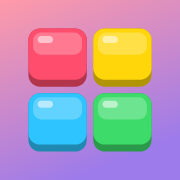
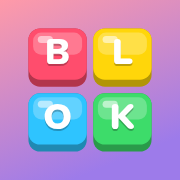
Blokaholic rename; 45s idle move limit (Classic/Daily/challenges); No-moves swap prompt with 3s auto-swap

diff --git a/index.html b/index.html
@@ -6,11 +6,11 @@
 <meta name="theme-color" content="#7b5cd6">
 <meta name="mobile-web-app-capable" content="yes">
 <meta name="apple-mobile-web-app-capable" content="yes">
-<title>Block Bloom: free block puzzle, zero ads</title>
+<title>Blokaholic: free block puzzle, zero ads</title>
 <meta name="description" content="Drag, clear, combo. Tap to play the same pieces and beat my score!">
 <meta property="og:type" content="website">
-<meta property="og:site_name" content="Block Bloom">
-<meta property="og:title" content="Block Bloom: free block puzzle, zero ads">
+<meta property="og:site_name" content="Blokaholic">
+<meta property="og:title" content="Blokaholic: free block puzzle, zero ads">
 <meta property="og:description" content="Drag, clear, combo. Tap to play the same pieces and beat my score!">
 <meta property="og:url" content="https://duncanjameslowe37-svg.github.io/block-bloom/">
 <meta property="og:image" content="https://duncanjameslowe37-svg.github.io/block-bloom/og-image.png">
@@ -18,12 +18,12 @@
 <meta property="og:image:type" content="image/png">
 <meta property="og:image:width" content="1200">
 <meta property="og:image:height" content="630">
-<meta property="og:image:alt" content="Block Bloom: a colourful block puzzle board, the words Can you beat me? and a Zero Ads badge">
+<meta property="og:image:alt" content="Blokaholic: a colourful block puzzle board, the words Can you beat me? and a Zero Ads badge">
 <meta name="twitter:card" content="summary_large_image">
-<meta name="twitter:title" content="Block Bloom: free block puzzle, zero ads">
+<meta name="twitter:title" content="Blokaholic: free block puzzle, zero ads">
 <meta name="twitter:description" content="Drag, clear, combo. Tap to play the same pieces and beat my score!">
 <meta name="twitter:image" content="https://duncanjameslowe37-svg.github.io/block-bloom/og-image.png">
-<meta name="twitter:image:alt" content="Block Bloom: a colourful block puzzle board, the words Can you beat me? and a Zero Ads badge">
+<meta name="twitter:image:alt" content="Blokaholic: a colourful block puzzle board, the words Can you beat me? and a Zero Ads badge">
 <link rel="canonical" href="https://duncanjameslowe37-svg.github.io/block-bloom/">
 <link rel="icon" type="image/png" sizes="32x32" href="favicon-32.png">
 <link rel="icon" type="image/png" sizes="192x192" href="icon-192.png">
@@ -57,6 +57,7 @@ body.menu #hud .scorebox,body.menu #homeBtn{visibility:hidden}
 .overlay.show .card{transform:none}
 .logo{display:flex;flex-direction:column;align-items:center;gap:4px;margin-bottom:10px}
 .pvlink{display:inline-block;margin-top:12px;font-size:12px;font-weight:700;color:#fff;opacity:.55;text-decoration:none;padding:4px 10px;pointer-events:auto}.pvlink:hover{opacity:.9;text-decoration:underline}
+#oReason{font-size:15px;font-weight:900;opacity:.85;margin:2px 0 4px;letter-spacing:.3px}#oReason.time{color:#ffb3c1;opacity:1}
 .tagline{font-size:15px;font-weight:800;opacity:.92;margin:0 0 18px;text-shadow:0 2px 0 rgba(0,0,0,.15)}
 .logo .row{display:flex;gap:5px}
 .logo .tile{width:44px;height:48px;border-radius:11px;display:flex;align-items:center;justify-content:center;font-weight:900;font-size:30px;
@@ -110,6 +111,23 @@ h2{margin:0 0 4px;font-size:28px;font-weight:900}
 #swapBtn.armed::before{background:linear-gradient(#ffd60a,#ff9f1c)}
 #swapBtn.pulse{animation:spulse .8s ease-in-out infinite}
 @keyframes spulse{0%,100%{transform:scale(1);filter:drop-shadow(0 0 0 #ffd60a)}50%{transform:scale(1.2);filter:drop-shadow(0 0 14px #ffd60a)}}
+#stuckP{position:fixed;z-index:4;display:none;flex-direction:column;align-items:center;justify-content:center;gap:6px;padding:10px;border-radius:22px;
+  background:rgba(40,16,80,.78);color:#fff;font-weight:900;text-align:center;cursor:pointer;border:3px solid #ffd60a;
+  box-shadow:0 0 0 5px rgba(255,214,10,.22),0 12px 30px rgba(0,0,0,.35);font:inherit;font-weight:900}
+#stuckP.show{display:flex;animation:spIn .4s cubic-bezier(.2,1.6,.4,1)}
+#stuckP .s1{font-size:26px;letter-spacing:.5px;text-shadow:0 2px 0 rgba(0,0,0,.25)}
+#stuckP .s2{font-size:21px;color:#ffd60a;display:flex;align-items:center;gap:8px}
+#stuckP .s2 svg{font-size:26px}
+#stuckP .sbar{width:min(220px,70%);height:6px;border-radius:3px;background:rgba(255,255,255,.2);overflow:hidden;margin-top:2px}
+#stuckP .sbar i{display:block;height:100%;width:100%;background:#ffd60a;border-radius:3px;transform-origin:left}
+#stuckP.show .sbar i{animation:sbarK 2.9s linear forwards}
+#stuckP .sarr{font-size:30px;color:#ffd60a;line-height:1;animation:sbob .6s ease-in-out infinite}
+@keyframes sbarK{from{transform:scaleX(1)}to{transform:scaleX(0)}}
+@keyframes sbob{0%,100%{transform:translateY(0)}50%{transform:translateY(7px)}}
+@keyframes spIn{0%{transform:scale(.6);opacity:0}100%{transform:scale(1);opacity:1}}
+@keyframes sbig{0%,100%{transform:scale(1.3);filter:drop-shadow(0 0 6px #ffd60a)}50%{transform:scale(1.5);filter:drop-shadow(0 0 24px #ffd60a)}}
+body.stuck #swapBtn.pulse{animation:sbig .7s ease-in-out infinite;z-index:5}
+body.menu #stuckP{display:none}
 #swapBtn.pop{animation:spop .6s cubic-bezier(.2,1.8,.4,1)}
 @keyframes spop{0%{transform:scale(.5) rotate(-90deg)}100%{transform:scale(1) rotate(0)}}
 body.menu #swapBtn{visibility:hidden}
@@ -187,6 +205,7 @@ body.chal #chalCard{padding:12px 14px 14px}
 <div id="over" class="overlay">
   <div class="card">
     <div id="oRibbon" class="ribbon" style="display:none">NEW BEST!</div>
+    <div id="oReason"></div>
     <div class="lbl">SCORE</div>
     <div id="oScore">0</div>
     <div id="oBest"><svg viewBox="0 0 24 24"><path d="M3 7l4.5 4L12 4l4.5 7L21 7l-2 12H5z"/></svg><span id="oBestV">0</span></div>
@@ -221,6 +240,7 @@ body.chal #chalCard{padding:12px 14px 14px}
   <div class="row3"><button class="ibtn" id="bBack" aria-label="Back"><svg viewBox="0 0 24 24"><path d="M20 11H7.8l5.6-5.6L12 4l-8 8 8 8 1.4-1.4L7.8 13H20z"/></svg></button><button class="ibtn" id="bSave" aria-label="Download"><svg viewBox="0 0 24 24"><path d="M11 3h2v9l3.5-3.5 1.4 1.4L12 15.8 6.1 9.9l1.4-1.4L11 12zM4 18h16v2H4z"/></svg></button><button class="ibtn" id="bShare" aria-label="Share" style="flex:2;background:linear-gradient(#5dff8a,#1fc45a)"><svg viewBox="0 0 24 24"><path d="M18 16a3 3 0 0 0-2.2 1l-7-4a3 3 0 0 0 0-2l7-4A3 3 0 1 0 15 5l-7 4a3 3 0 1 0 0 6l7 4a3 3 0 1 0 3-3z"/></svg></button></div>
 </div></div>
 <div id="toast"></div>
+<button id="stuckP" aria-label="No moves. Tap to swap a piece"><div class="s1">NO MOVES!</div><div class="s2"><svg viewBox="0 0 24 24"><path d="M7 7h10.2l-2.6-2.6L16 3l5 5-5 5-1.4-1.4L17.2 9H7zm10 10H6.8l2.6 2.6L8 21l-5-5 5-5 1.4 1.4L6.8 15H17z"/></svg>Tap to SWAP</div><div class="sbar"><i></i></div><div class="sarr">&#9660;</div></button>
 <button id="swapBtn" class="empty" aria-label="Swap a piece"><svg viewBox="0 0 24 24"><path d="M7 7h10.2l-2.6-2.6L16 3l5 5-5 5-1.4-1.4L17.2 9H7zm10 10H6.8l2.6 2.6L8 21l-5-5 5-5 1.4 1.4L6.8 15H17z"/></svg><b id="swapN">0</b></button>
 
 <script>
@@ -233,6 +253,7 @@ let W=0,H=0,DPR=1,now=0,last=0;
 
 /* ---------------- icons ---------------- */
 const IC={
+ clock:'<svg viewBox="0 0 24 24"><path d="M12 2a10 10 0 1 0 0 20 10 10 0 0 0 0-20zm0 2a8 8 0 1 1 0 16 8 8 0 0 1 0-16zm-1 3v6l5 3 1-1.7-4-2.3V7z"/></svg>',
  on:'<svg viewBox="0 0 24 24"><path d="M3 9v6h4l5 5V4L7 9zm13.5 3A4.5 4.5 0 0 0 14 8v8a4.5 4.5 0 0 0 2.5-4zM14 3.2v2.1a7 7 0 0 1 0 13.4v2.1a9 9 0 0 0 0-17.6z"/></svg>',
  off:'<svg viewBox="0 0 24 24"><path d="M3 9v6h4l5 5V4L7 9zm18.4 3 2-2-1.4-1.4-2 2-2-2-1.4 1.4 2 2-2 2 1.4 1.4 2-2 2 2 1.4-1.4z"/></svg>',
  flame:'<svg viewBox="0 0 24 24"><path d="M13.5.7s.7 2.6.7 4.7c0 2-1.3 3.6-3.3 3.6S7.4 7.4 7.4 5.4V5A11.5 11.5 0 0 0 4 13a8 8 0 0 0 16 0c0-5.4-2.6-10.2-6.5-12.3zM11.7 20c-1.8 0-3.2-1.4-3.2-3.1 0-1.6 1-2.8 2.8-3.1 1.8-.4 3.6-1.2 4.6-2.6.4 1.3.6 2.6.6 4 0 2.6-2.1 4.8-4.8 4.8z"/></svg>',
@@ -317,6 +338,8 @@ function randPiece(r){let x=r()*TOTALW;for(const p of PIECES){x-=p.w;if(x<=0)ret
 /* ---------------- state ---------------- */
 let board=[],tray=[null,null,null],score=0,shown=0,combo=0,since=0,mode='classic',state='title',drng=Math.random,dailyTarget=0;
 let gameSeed=0,dealN=0,grng=Math.random,gift=null,nextGift=4,clearsN=0,mult2=0,perfects=0,newBestHit=false,challenge=null,chalWon=false,pendingChal=null;
+const IDLE=45000,IDLE_WARN=10000;let idleT=IDLE,idleSec=99,idleSince=0;
+const STUCK_AUTO=2900;let stuckShown=false,stuckLeft=0,stuckAt=0;
 let swaps=0,meter=0,armed=false,stuck=false,srng=Math.random,speedT=0,speedMax=8000,strikes=3,lastTick=99;
 const MAXS=3,speedFor=s=>3000+5000*Math.exp(-s/5000);
 let drag=null,ghost=null,kb=null,particles=[],fx=[],texts=[],shake=0,flash=0,flashCol='#fff',endT=0,celebrated=false,hint=null,trayT=0,bgPulse=0,maxComboRun=0,linesRun=0;
@@ -376,6 +399,7 @@ const SFX={
  giftOpen(){noise(.3,.1,4000);[0,4,7,12,16,19].forEach((k,i)=>tone(note(10+k),.35,'triangle',.13,0,i*.05))},
  tick(hi){tone(hi?1320:1040,.05,'sine',.07)},
  strike(){tone(300,.3,'triangle',.25,110);noise(.15,.07,700)},
+ softTick(){tone(880,.05,'sine',.07)},
  earn(){[0,4,7,12].forEach((k,i)=>tone(note(12+k),.2,'sine',.14,0,i*.05));tone(note(24),.4,'triangle',.06,0,.2)},
  swap(){noise(.2,.07,2500);tone(380,.2,'triangle',.15,900)},
  unlock(){[0,4,7,12,16].forEach((k,i)=>tone(note(8+k),.3,'sine',.15,0,i*.06))}
@@ -481,8 +505,11 @@ function layout(){
   L.slots=[0,1,2].map(i=>({x:L.bx+i*S/3,y:L.by+S+L.cell*.25,w:S/3,h:th}));
   L.swap={x:W/2-32,y:Math.min(L.slots[0].y+th+2,H-74)};
  }
+ L.idle={x:L.swap.x+32-(land?Math.min(84,L.slots[0].w/2-30):88),y:L.swap.y+32};
  L.tc=Math.min(L.cell*.64,L.slots[0].w/4.8,L.slots[0].h/5.2);
  const sb=$('#swapBtn');sb.style.left=L.swap.x+'px';sb.style.top=L.swap.y+'px';
+ {const sp=$('#stuckP'),r=land?{x:L.slots[0].x,y:L.by,w:L.slots[0].w,h:L.swap.y-L.by-14}:{x:L.bx+6,y:L.slots[0].y,w:L.S-12,h:L.swap.y-L.slots[0].y-10};
+  Object.assign(sp.style,{left:r.x+'px',top:r.y+'px',width:r.w+'px',height:Math.max(120,r.h)+'px'})}
  makeBokeh();
 }
 function slotCenter(i){const s=L.slots[i];return{x:s.x+s.w/2,y:s.y+s.h/2}}
@@ -614,6 +641,7 @@ function draw(){
   ctx.fillStyle=`hsl(${hue},95%,${urgent?58+10*Math.sin(now*.03):56}%)`;if(f>0){rr(bx,y,Math.max(h,S*f),h,h/2);ctx.fill()}
   if(urgent){ctx.strokeStyle=`rgba(255,70,90,${.45+.45*Math.sin(now*.03)})`;ctx.lineWidth=4;rr(bx-8,by-8,S+16,S+16,18);ctx.stroke()}
  }
+ drawIdle();
  // texts
  texts=texts.filter(t=>{const a=(now-t.t)/t.life;if(a>1)return false;const sc=elastic(Math.min(1,a*3))*(t.big?1:1);
   ctx.save();ctx.translate(t.x,t.y-a*t.rise);ctx.scale(sc,sc);if(t.praise)ctx.rotate(Math.sin(a*14)*.06*(1-a));ctx.globalAlpha=a>.7?1-(a-.7)/.3:1;
@@ -653,9 +681,31 @@ function update(dt){
  if(mode==='speed'&&state==='play'){speedT-=dt;
   if(speedT<2000&&speedT>0){const q=Math.ceil(speedT/500);if(q!==lastTick){lastTick=q;SFX.tick(q<=2)}}
   if(speedT<=0)strike()}
+ if(stuckShown&&stuck&&state==='play'&&!document.hidden&&!document.querySelector('.overlay.show')){stuckLeft-=rawDt;if(stuckLeft<=0)autoSwap(true)}
+ // idle move timer (Classic/Daily/challenges): pauses when hidden, on menus/modals, during gift reveal, and while a piece is held
+ if(idleOn()){idleT-=dt;
+  if(idleT<=IDLE_WARN&&!idleSince)idleSince=now;
+  if(idleT<=3000&&idleT>0){const q=Math.ceil(idleT/1000);if(q!==idleSec){idleSec=q;SFX.softTick()}}
+  if(idleT<=0){idleT=0;endGame('idle')}}
  if(shown!==score){const d=score-shown;shown+=Math.abs(d)<1?d:d*Math.min(1,dt*.012);if(Math.abs(score-shown)<.5)shown=score;scoreEl.textContent=fmt(shown)}
 }
-function frame(t){const dt=Math.min(50,t-(last||t));last=t;now=t;update(dt);draw();requestAnimationFrame(frame)}
+function idlePaused(){return document.hidden||!!drag||!!kb||!!gift||!!document.querySelector('.overlay.show')}
+function idleOn(){return mode!=='speed'&&state==='play'&&!stuck&&!idlePaused()}
+function idleReset(){idleT=IDLE;idleSec=99;idleSince=0}
+function drawIdle(){
+ if(mode==='speed'||state!=='play'||stuck||idleT>IDLE_WARN)return;
+ if(!idleSince)idleSince=now;
+ const a=Math.min(1,(now-idleSince)/600)*(idlePaused()?.55:1),f=Math.max(0,idleT/IDLE_WARN);
+ const r=22,x=L.idle.x,y=L.idle.y,last3=idleT<=3000,col=last3?'#ff8fa3':f<.6?'#ffd27a':'#ffffff';
+ ctx.save();ctx.globalAlpha=a;
+ ctx.fillStyle='rgba(40,20,70,.45)';ctx.beginPath();ctx.arc(x,y,r+7,0,7);ctx.fill();
+ ctx.lineWidth=5;ctx.lineCap='round';ctx.strokeStyle='rgba(255,255,255,.18)';ctx.beginPath();ctx.arc(x,y,r,0,7);ctx.stroke();
+ ctx.strokeStyle=col;if(f>0){ctx.beginPath();ctx.arc(x,y,r,-Math.PI/2,-Math.PI/2+f*Math.PI*2);ctx.stroke()}
+ const pulse=last3?1+.06*Math.max(0,1-((IDLE_WARN-idleT)%1000)/250):1;
+ ctx.translate(x,y);ctx.scale(pulse,pulse);ctx.fillStyle=col;ctx.font='900 19px ui-rounded,system-ui,sans-serif';ctx.textAlign='center';ctx.textBaseline='middle';
+ ctx.fillText(Math.ceil(idleT/1000),0,1);ctx.restore()}
+let rawDt=0;
+function frame(t){rawDt=Math.min(250,t-(last||t));const dt=Math.min(50,t-(last||t));last=t;now=t;update(dt);draw();requestAnimationFrame(frame)}
 
 /* ---------------- effects ---------------- */
 function burst(x,y,col,n=8,sp=.35){for(let i=0;i<n&&particles.length<500;i++){const a=Math.random()*6.28,v=Math.random()*sp+.08;particles.push({x,y,vx:Math.cos(a)*v,vy:Math.sin(a)*v-.2,g:.0012,col,s:Math.random()*L.cell*.22+3,l:1,d:.0012+Math.random()*.001,a:0,va:(Math.random()-.5)*.02})}}
@@ -672,7 +722,7 @@ function bestNow(){return mode==='daily'?(store.dailyDate===today()?store.dailyB
 function place(i,gx,gy){
  const pc=tray[i],sh=pc.p,col=TH.cols[pc.c];
  for(const [x,y] of sh.cells)board[gy+y][gx+x]={c:pc.c,t:now};
- tray[i]=null;ghost=null;
+ tray[i]=null;ghost=null;idleReset();
  if(!store.seenHint){store.seenHint=true;hint=null}
  let pts=sh.cells.length;
  SFX.place();buzz(8);
@@ -761,7 +811,7 @@ function makeCard(){
  const g=C.createLinearGradient(0,0,W2*.4,H2);g.addColorStop(0,TH.bg[0]);g.addColorStop(1,TH.bg[1]);C.fillStyle=g;C.fillRect(0,0,W2,H2);
  const rnd=mulberry32(gameSeed^score);C.fillStyle='rgba(255,255,255,.12)';for(let i=0;i<14;i++){C.beginPath();C.arc(rnd()*W2,rnd()*H2,40+rnd()*120,0,7);C.fill()}
  C.textAlign='center';C.textBaseline='middle';const F=(w,sz)=>`${w} ${sz}px ui-rounded,"SF Pro Rounded",Nunito,system-ui,sans-serif`;
- const word='BLOCKBLOOM';for(let i=0;i<10;i++){const row=i<5?0:1,col=i%5,x=W2/2-2.5*96+col*96,y=70+row*104;drawCell(x,y,92,TH.cols[(col+row*3)%7],1,0,C);C.fillStyle='#fff';C.font=F(900,56);C.fillText(word[i],x+46,y+48)}
+ const word='BLOKAHOLIC';for(let i=0;i<10;i++){const row=i<4?0:1,col=row?i-4:i,x=W2/2-(row?6:4)/2*96+col*96+2,y=70+row*104;drawCell(x,y,92,TH.cols[(col+row*3)%7],1,0,C);C.fillStyle='#fff';C.font=F(900,56);C.fillText(word[i],x+46,y+48)}
  const win=challenge&&score>challenge.score;
  const head=win?'I BEAT YOUR SCORE!':wasBest?'NEW BEST!':perfects?'PERFECT CLEAR!':MODEL[mode]+' MODE';
  C.font=F(900,64);const hw=C.measureText(head).width+80;C.fillStyle='#ffd60a';rr(W2/2-hw/2,320,hw,104,30,C);C.fill();C.fillStyle='#6b3b00';C.fillText(head,W2/2,374);
@@ -781,14 +831,14 @@ const MODET={classic:'Classic',daily:'Daily',speed:'Speed'};
 const TAIL='Free, no ads, plays in your browser:';
 function challengeText(link){const M=MODET[mode];
  if(challenge){const cs=fmt(challenge.score);
-  return score>challenge.score?`🧩 I beat your Block Bloom score! ${fmt(score)} vs your ${cs} in ${M}. Your turn: you get the exact same pieces again. Can you take it back? ${TAIL} ${link}`
-   :`🧩 I took on your Block Bloom challenge: ${fmt(score)} vs your ${cs} in ${M}. Rematch? Tap to play the exact same pieces and see who wins. ${TAIL} ${link}`}
- return `🧩 I challenge you to Block Bloom! I scored ${fmt(score)} in ${M}. You get the exact same pieces. Can you beat me? ${TAIL} ${link}`}
-function bragText(link){return `🧩 I just scored ${fmt(score)} in Block Bloom (${MODET[mode]})${wasBest?', a new personal best':''}! It's a free block puzzle with zero ads that plays in your browser. Tap to play my exact pieces and try to beat me: ${link}`}
-async function downloadCard(){if(!bragBlob&&bragP)await bragP;if(!bragBlob)return;const a=document.createElement('a');a.href=URL.createObjectURL(bragBlob);a.download='block-bloom-'+score+'.png';document.body.appendChild(a);a.click();setTimeout(()=>{URL.revokeObjectURL(a.href);a.remove()},1000)}
+  return score>challenge.score?`🧩 I beat your Blokaholic score! ${fmt(score)} vs your ${cs} in ${M}. Your turn: you get the exact same pieces again. Can you take it back? ${TAIL} ${link}`
+   :`🧩 I took on your Blokaholic challenge: ${fmt(score)} vs your ${cs} in ${M}. Rematch? Tap to play the exact same pieces and see who wins. ${TAIL} ${link}`}
+ return `🧩 I challenge you to Blokaholic! I scored ${fmt(score)} in ${M}. You get the exact same pieces. Can you beat me? ${TAIL} ${link}`}
+function bragText(link){return `🧩 I just scored ${fmt(score)} in Blokaholic (${MODET[mode]})${wasBest?', a new personal best':''}! It's a free block puzzle with zero ads that plays in your browser. Tap to play my exact pieces and try to beat me: ${link}`}
+async function downloadCard(){if(!bragBlob&&bragP)await bragP;if(!bragBlob)return;const a=document.createElement('a');a.href=URL.createObjectURL(bragBlob);a.download='blokaholic-'+score+'.png';document.body.appendChild(a);a.click();setTimeout(()=>{URL.revokeObjectURL(a.href);a.remove()},1000)}
 async function shareCard(){
  const link=challengeLink();if(!bragBlob&&bragP)await bragP;
- try{const f=new File([bragBlob],'block-bloom.png',{type:'image/png'});
+ try{const f=new File([bragBlob],'blokaholic.png',{type:'image/png'});
   if(navigator.canShare&&navigator.canShare({files:[f]})){await navigator.share({files:[f],text:bragText(link)});return}}catch(e){if(e&&e.name==='AbortError')return}
  await downloadCard();const ok=await copyText(bragText(link));toast(ok?'IMAGE SAVED · LINK COPIED':'IMAGE SAVED')}
 async function shareChallenge(){
@@ -797,7 +847,19 @@ async function shareChallenge(){
  toast((await copyText(t))?IC.swords+' CHALLENGE LINK COPIED':'COPY FAILED')}
 /* ---- swap ---- */
 function updateSwapUI(){const b=$('#swapBtn');b.style.setProperty('--p',swaps>=MAXS?100:Math.min(100,meter));$('#swapN').textContent=swaps;
- b.classList.toggle('empty',swaps===0);b.classList.toggle('armed',armed);b.classList.toggle('pulse',stuck&&swaps>0&&!armed)}
+ b.classList.toggle('empty',swaps===0);b.classList.toggle('armed',armed);b.classList.toggle('pulse',stuck&&swaps>0&&!armed);
+ const st=stuck&&swaps>0&&state==='play',sp=$('#stuckP');
+ if(st&&!stuckShown){stuckShown=true;stuckLeft=STUCK_AUTO;stuckAt=performance.now();sp.classList.remove('show');void sp.offsetWidth;sp.classList.add('show')}
+ if(!st){stuckShown=false;sp.classList.remove('show')}
+ document.body.classList.toggle('stuck',st)}
+function bestSwapSlot(){let bi=-1,bn=-1;tray.forEach((t,i)=>{if(t&&t.p.cells.length>bn){bn=t.p.cells.length;bi=i}});return bi}
+function autoSwap(auto){
+ if(!stuck||swaps<=0||state!=='play')return;const i=bestSwapSlot();if(i<0)return;
+ armed=false;doSwap(i);const c=slotCenter(i),b=$('#swapBtn');
+ burst(c.x,c.y,'#ffd60a',18,.4);burst(c.x,c.y,'#ffffff',10,.35);say(auto?'SWAPPED!':'SWAP!',Math.max(L.cell*2.6,Math.min(W-L.cell*2.6,c.x)),c.y-L.cell*.9,L.cell*.62,'#ffd60a',{life:1100});
+ SFX.earn();buzz([15,30,15]);b.classList.remove('pop');void b.offsetWidth;b.classList.add('pop');
+ window.__lastAutoSwap={auto,ms:Math.round(performance.now()-stuckAt0)}}
+let stuckAt0=0;
 function addSwapMeter(v){
  if(swaps>=MAXS){meter=100;updateSwapUI();return}
  meter+=v;let got=0;
@@ -811,15 +873,16 @@ function doSwap(i){
  if(swaps<=0||!tray[i]||state!=='play')return;
  const old=tray[i].p,r=srng;let np=null,first=null;
  for(let t=0;t<120;t++){const p=randPiece(r);if(p===old)continue;if(!first)first=p;if(anyFit(p)){np=p;break}}
+ if(!np){const fit=PIECES.filter(p=>p!==old&&anyFit(p));if(fit.length)np=fit[Math.floor(r()*fit.length)]}
  np=np||first||randPiece(r);
  tray[i]={p:np,c:Math.floor(r()*7),born:now,swapT:now};
- swaps--;armed=false;if(kb&&kb.i===i)kb=null;
+ swaps--;armed=false;if(kb&&kb.i===i)kb=null;idleReset();
  const c=slotCenter(i);burst(c.x,c.y,TH.cols[tray[i].c],12,.3);SFX.swap();buzz(12);
  if(meter>=100&&swaps<MAXS)meter=0;
- checkStuck();updateSwapUI();save()}
+ stuckShown=false;checkStuck();updateSwapUI();save()}
 function checkStuck(){
  if(tray.some(t=>t&&anyFit(t.p))){stuck=false;updateSwapUI();return}
- if(swaps>0){if(!stuck){stuck=true;SFX.bad();say('SWAP!',L.swap.x+32,L.swap.y-16,L.cell*.6,'#ffd60a',{life:1500})}updateSwapUI();return}
+ if(swaps>0){if(!stuck){stuck=true;stuckAt0=performance.now();SFX.bad();buzz([20,40,20])}updateSwapUI();return}
  stuck=false;updateSwapUI();endGame('space')}
 /* ---- speed ---- */
 function updateModeTag(){
@@ -845,7 +908,7 @@ function startGame(m,opt={}){
   const cnt=4+Math.floor(drng()*3);
   for(let k=0;k<cnt;k++){const x=Math.floor(drng()*4),y=Math.floor(drng()*N),c=Math.floor(drng()*7);board[y][x]={c,t:-1e9};board[y][N-1-x]={c,t:-1e9}}
  }
- swaps=1;meter=0;armed=false;stuck=false;strikes=3;speedMax=speedFor(0);speedT=speedMax;lastTick=99;
+ swaps=1;meter=0;armed=false;stuck=false;strikes=3;idleReset();speedMax=speedFor(0);speedT=speedMax;lastTick=99;
  mus.speed=m==='speed';setMusicTempo(m==='speed'?128:118);
  updateModeTag();updateSwapUI();
  dealTray();
@@ -855,10 +918,13 @@ function startGame(m,opt={}){
 }
 function endGame(reason){
  mus.speed=false;setMusicTempo(118);setMusicMode('calm');state='ending';endT=now;drag=null;kb=null;armed=false;stuck=false;updateSwapUI();
- if(reason!=='time')setTimeout(()=>{say('NO SPACE',L.bx+L.S/2,L.by+L.S/2,L.cell*.8,'#fff',{life:900,rise:0})},100);
+ endReason=reason;
+ if(reason==='idle'){say('OUT OF TIME',L.bx+L.S/2,L.by+L.S/2,L.cell*.75,'#ffb3c1',{life:1100,rise:0});shake=8}
+ else if(reason!=='time')setTimeout(()=>{say('NO SPACE',L.bx+L.S/2,L.by+L.S/2,L.cell*.8,'#fff',{life:900,rise:0})},100);
  SFX.over();buzz([30,40,30]);
  setTimeout(showOver,1250);
 }
+let endReason='';
 function stars(s){if(!dailyTarget)return 0;return s>=dailyTarget*1.6?3:s>=dailyTarget?2:s>=dailyTarget*.5?1:0}
 function starHtml(k){let h='';for(let i=0;i<3;i++)h+=`<span class="${i<k?'':'off'}">${IC.star}</span>`;return h}
 function showOver(){
@@ -873,6 +939,7 @@ function showOver(){
  else store.best=Math.max(store.best,score);
  store.bestCombo=Math.max(store.bestCombo,maxComboRun);save();
  $('#oRibbon').style.display=isBest?'inline-block':'none';
+ const rs=$('#oReason');rs.innerHTML=endReason==='space'?'No space left':IC.clock+' Out of time';rs.className=endReason==='space'?'':'time';
  $('#oBestV').textContent=fmt(Math.max(prev,score));
  // count-up
  const t0=performance.now(),el=$('#oScore');(function cu(){const k=Math.min(1,(performance.now()-t0)/700);el.textContent=fmt(score*ease(k));if(k<1)requestAnimationFrame(cu)})();
@@ -899,7 +966,7 @@ function swHtml(t){return '<span class="sw">'+t.cols.slice(0,4).map(c=>`<b style
 function hideAll(){document.querySelectorAll('.overlay').forEach(o=>o.classList.remove('show'));document.body.classList.remove('menu')}
 function show(id){hideAll();$(id).classList.add('show');document.body.classList.add('menu')}
 function buildTitle(){
- const word=[['B','L','O','C','K'],['B','L','O','O','M']];
+ const word=[['B','L','O','K'],['A','H','O','L','I','C']];
  $('#logo').innerHTML=word.map((r,ri)=>'<div class="row">'+r.map((ch,i)=>`<div class="tile" style="background:${TH.cols[(i+ri*3)%7]};animation-delay:${(i+ri*5)*.09}s">${ch}</div>`).join('')+'</div>').join('');
  const t=today();$('#dDate').textContent=t.slice(8)+'/'+t.slice(5,7);
  const db=store.dailyDate===t?store.dailyBest:0;
@@ -931,6 +998,7 @@ $('#playBtn').onclick=()=>{SFX.click();startGame('classic')};
 $('#dailyBtn').onclick=()=>{SFX.click();startGame('daily')};
 $('#speedBtn').onclick=()=>{SFX.click();startGame('speed')};
 $('#chalBtn').onclick=()=>{SFX.click();if(pendingChal)startGame(pendingChal.mode,{seed:pendingChal.seed,challenge:pendingChal})};
+$('#stuckP').onclick=e=>{e.stopPropagation();unlockAudio();autoSwap(false)};
 $('#swapBtn').onclick=()=>{unlockAudio();if(state!=='play')return;if(swaps<=0){SFX.bad();$('#swapBtn').animate([{transform:'translateX(-5px)'},{transform:'translateX(5px)'},{transform:'none'}],{duration:180});return}
  armed=!armed;SFX.click();updateSwapUI()};
 $('#themesBtn').onclick=()=>{unlockAudio();SFX.click();openThemes('#title')};
@@ -939,7 +1007,7 @@ $('#tBack').onclick=()=>{SFX.click();if(themesReturn==='#title')goHome();else sh
 $('#replay').onclick=()=>{startGame(mode,challenge?{seed:gameSeed,challenge}:{});SFX.click()};
 $('#oHome').onclick=()=>{SFX.click();goHome()};
 $('#homeBtn').onclick=()=>{unlockAudio();SFX.click();goHome()};
-function goHome(){mus.speed=false;setMusicTempo(118);armed=false;stuck=false;setMusicMode('calm');state='title';drag=null;kb=null;buildTitle();show('#title')}
+function goHome(){mus.speed=false;setMusicTempo(118);armed=false;stuck=false;state='title';updateSwapUI();setMusicMode('calm');state='title';drag=null;kb=null;buildTitle();show('#title')}
 $('#oShare').onclick=()=>openBrag();
 $('#oChallenge').onclick=()=>{SFX.click();shareChallenge()};
 $('#bBack').onclick=()=>{SFX.click();show('#over')};
@@ -980,6 +1048,7 @@ addEventListener('keydown',e=>{
  if(state==='title'){if(k==='Enter'||k===' '){e.preventDefault();startGame('classic')}else if(k==='d'||k==='D')startGame('daily');else if(k==='s'||k==='S')startGame('speed');return}
  if(state==='over'){if(k==='Enter'||k===' '||k==='r'||k==='R'){e.preventDefault();$('#replay').click()}else if(k==='Escape')goHome();return}
  if(state!=='play')return;
+ if(stuck&&swaps>0&&(k==='Enter'||k===' ')){e.preventDefault();autoSwap(false);return}
  if(k==='Escape'){if(armed){armed=false;updateSwapUI()}else if(kb)kb=null;else goHome();return}
  if(k==='s'||k==='S'){if(swaps<=0){SFX.bad();return}if(kb){doSwap(kb.i);return}armed=!armed;SFX.click();updateSwapUI();return}
  if(k==='1'||k==='2'||k==='3'){const i=+k-1;if(!tray[i])return;if(armed){doSwap(i);return}const sh=tray[i].p;const m=findMove(sh);kb={i,gx:m?m.gx:Math.floor((N-sh.wd)/2),gy:m?m.gy:Math.floor((N-sh.ht)/2)};SFX.pick();return}
@@ -995,7 +1064,7 @@ document.addEventListener('gesturestart',e=>e.preventDefault());
 document.addEventListener('contextmenu',e=>e.preventDefault());
 
 /* ---------------- test hooks (read-only helpers) ---------------- */
-window.BB={state:()=>({state,mode,score,combo,best:bestNow(),swaps,meter,stuck,armed,strikes,seed:gameSeed,mult2,gift:gift&&{type:gift.type,label:gift.label||''},clearsN,nextGift,skin:SKIN,skins:store.skins.slice(),challenge,speedT:Math.round(speedT),speedMax:Math.round(speedMax),tray:tray.map(t=>t&&{w:t.p.wd,h:t.p.ht,n:t.p.cells.length}),filled:board.flat().filter(Boolean).length}),
+window.BB={state:()=>({state,mode,score,combo,best:bestNow(),swaps,meter,stuck,stuckShown,stuckLeft:Math.round(stuckLeft),lastAutoSwap:window.__lastAutoSwap||null,armed,strikes,seed:gameSeed,mult2,gift:gift&&{type:gift.type,label:gift.label||''},clearsN,nextGift,skin:SKIN,skins:store.skins.slice(),challenge,speedT:Math.round(speedT),idleT:Math.round(idleT),idlePaused:idlePaused(),endReason,speedMax:Math.round(speedMax),tray:tray.map(t=>t&&{w:t.p.wd,h:t.p.ht,n:t.p.cells.length}),filled:board.flat().filter(Boolean).length}),
  move:i=>tray[i]?findMove(tray[i].p):null,
  firstMove:i=>{if(!tray[i])return null;const sh=tray[i].p;for(let y=0;y<=N-sh.ht;y++)for(let x=N-sh.wd;x>=0;x--)if(fits(sh,x,y)&&!linesFor(sh,x,y).rows.length&&!linesFor(sh,x,y).cols.length)return{gx:x,gy:y};return findMove(sh)},
  dropPoint:(i,gx,gy,touch)=>{const sh=tray[i].p,c=L.cell;return{x:L.bx+(gx+sh.wd/2)*c,y:L.by+(gy+sh.ht/2)*c+(touch?c*1.4:0)}},
@@ -1003,7 +1072,7 @@ window.BB={state:()=>({state,mode,score,combo,best:bestNow(),swaps,meter,stuck,a
  swapPoint:()=>({x:L.swap.x+32,y:L.swap.y+32}),
  // test-only: build a stuck board (isolated diagonal holes, 3x3 pieces) with n swaps banked
  dev:{stuck(n){for(let y=0;y<N;y++)for(let x=0;x<N;x++)board[y][x]=x===y?null:{c:(x+y)%7,t:-1e9};tray=[0,1,2].map(()=>({p:PIECES.find(p=>p.cells.length===9),c:1,born:now}));swaps=n;meter=0;stuck=false;checkStuck()},
-  fill(v){addSwapMeter(v)},gift(t){openGift(t)}},
+  fill(v){addSwapMeter(v)},idle(ms){idleT=ms;idleSec=99;idleSince=0},gift(t){openGift(t)}},
  challengeLink:()=>challengeLink(),
  texts:()=>texts.map(t=>t.s),
  card:()=>makeCard().toDataURL('image/png'),

diff --git a/privacy.html b/privacy.html
@@ -5,8 +5,8 @@
 <meta name="viewport" content="width=device-width,initial-scale=1,viewport-fit=cover">
 <meta name="theme-color" content="#7b5cd6">
 <meta name="robots" content="index,follow">
-<title>Privacy Policy · [Game name]</title>
-<meta name="description" content="Privacy policy for [Game name]: no accounts, no ads, no tracking. Your scores stay on your device.">
+<title>Privacy Policy · Blokaholic</title>
+<meta name="description" content="Privacy policy for Blokaholic: no accounts, no ads, no tracking. Your scores stay on your device.">
 <link rel="icon" type="image/png" sizes="32x32" href="favicon-32.png">
 <link rel="apple-touch-icon" sizes="180x180" href="apple-touch-icon.png">
 <style>
@@ -46,7 +46,7 @@ footer{opacity:.7;font-size:14px;text-align:center;margin-top:22px}
   <i style="background:#ff4d6d"></i><i style="background:#ff9f1c"></i><i style="background:#ffd60a"></i><i style="background:#2ec4b6"></i><i style="background:#4cc9f0"></i><i style="background:#9b5de5"></i>
 </div>
 <h1>Privacy Policy</h1>
-<p class="date">[Game name] · Last updated: 4 October 2026</p>
+<p class="date">Blokaholic · Last updated: 4 October 2026</p>
 
 <div class="card hl">
   <h2>The short version</h2>
@@ -61,7 +61,7 @@ footer{opacity:.7;font-size:14px;text-align:center;margin-top:22px}
 
 <div class="card">
   <h2>Who we are</h2>
-  <p>[Game name] ("the game", "we", "us") is a block puzzle game that you can play in a web browser or as an app. If you have any questions about this policy, contact us at <strong>[contact email]</strong>.</p>
+  <p>Blokaholic ("the game", "we", "us") is a block puzzle game that you can play in a web browser or as an app. If you have any questions about this policy, contact us at <strong>[contact email]</strong>.</p>
 </div>
 
 <div class="card">
@@ -112,7 +112,7 @@ footer{opacity:.7;font-size:14px;text-align:center;margin-top:22px}
 
 <div class="card">
   <h2>Contact</h2>
-  <p>[Game name] · <strong>[contact email]</strong></p>
+  <p>Blokaholic · <strong>[contact email]</strong></p>
 </div>
 
 <footer>Thanks for playing! 🧩</footer>
